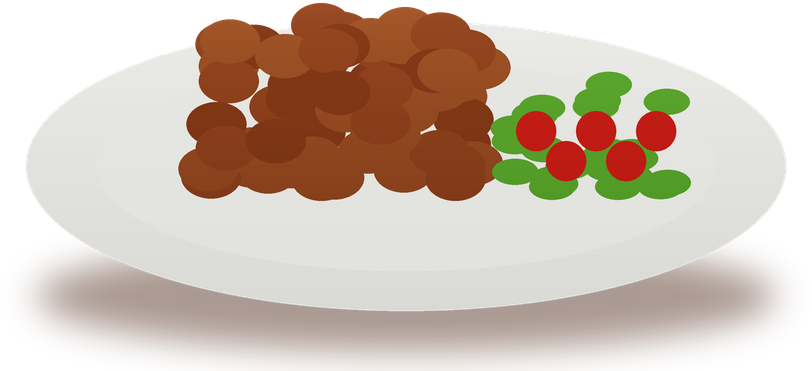
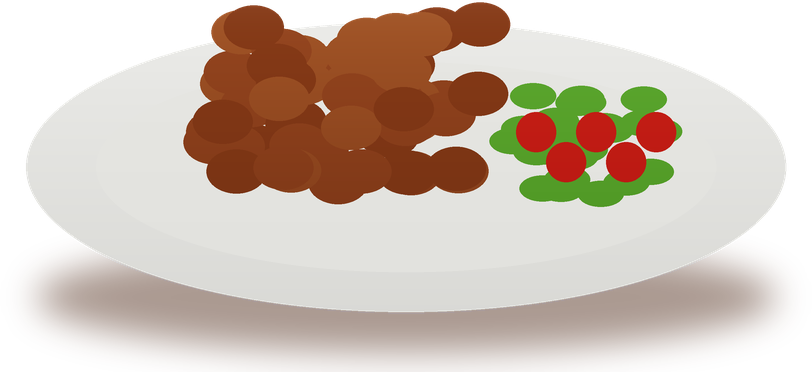
Centre the sauce list, soften the light sweep, GDK-style doner picture
Ryan's shop photo, 2 Nov: the sauce slide looked off-centre (English far left, Persian far right,
empty middle) and the light sweep showed as a strong white stripe on the TV.
- Sauce list: English and Persian now meet in the middle of the panel.
- The full-screen shine sweep is much fainter (the TVs show it far stronger than a monitor).
- Doner picture redrawn after GDK's look (Ryan: "take inspiration from the best parts"): toasted
  seeded bread, overstuffed shaved doner, red cabbage, lettuce, tomato, garlic sauce, cheese.
tools/check.cjs: all 7 pass.

Claude-Session: https://claude.ai/code/session_01GCEwpkWzwaa1Hpz45ttbNV

diff --git a/site/screen.css b/site/screen.css
@@ -64,7 +64,7 @@ body.hide-cursor, body.hide-cursor * { cursor: none; }
 /* A slow shine slides across the glass now and then: one moving band, so it stays smooth on TVs. */
 .sweep {
   position: fixed; top: 0; bottom: 0; left: 0; width: 30%; pointer-events: none; z-index: 5;
-  background: linear-gradient(105deg, transparent, rgba(255, 255, 255, .06) 40%, rgba(255, 255, 255, .2) 50%, rgba(255, 255, 255, .06) 60%, transparent);
+  background: linear-gradient(105deg, transparent, rgba(255, 255, 255, .02) 40%, rgba(255, 255, 255, .07) 50%, rgba(255, 255, 255, .02) 60%, transparent); /* faint: the TVs show it far stronger */
   transform: translateX(-110%); will-change: transform; animation: sweep 16s ease-in-out infinite;
 }
 @keyframes sweep { 0%, 70% { transform: translateX(-110%); } 100% { transform: translateX(350%); } }

diff --git a/tools/draw-food.py b/tools/draw-food.py
@@ -70,20 +70,36 @@ shade(img, z, (255, 222, 40), (240, 190, 0))                                    
 shade(img, rrect((100, 200, 800, 290), 70), (244, 186, 100), (204, 128, 50), light=0.35)      # top bun, behind look
 save(img, 'hotdog')
 
-# ---- doner baguette
-img = canvas(); shadow(img, (60, 470, 840, 560))
-shade(img, rrect((50, 330, 850, 480), 70), (236, 180, 100), (190, 120, 50), light=0.2)
-for k in range(46):
-    x = 80 + k * 16 + random.uniform(-5, 5); y = 300 + random.uniform(-12, 12)
-    shade(img, ell((x, y, x + 46, y + 40)), random.choice([(176, 86, 40), (150, 66, 26), (196, 110, 52)]), (110, 46, 18), light=0.2)
-for k in range(14):
-    x = 90 + k * 52 + random.uniform(-8, 8)
-    shade(img, ell((x, 318, x + 36, 344)), (226, 40, 30), (170, 20, 14), light=0.3)
-    shade(img, ell((x + 20, 330, x + 64, 352)), (110, 190, 60), (70, 140, 30))
-shade(img, rrect((40, 180, 860, 320), 75), (246, 196, 116), (206, 134, 56), light=0.4)
-for k in range(30):
-    x = 120 + random.uniform(0, 660); y = 205 + random.uniform(0, 40)
-    shade(img, ell((x, y, x + 10, y + 6)), (255, 244, 214), (230, 210, 170))
+# ---- doner baguette, GDK-style (Ryan, 2 Nov 2026: "take inspiration from the best parts of GDK"):
+# a toasted, seeded Turkish bread wedge, overstuffed with shaved doner, red cabbage, crisp lettuce,
+# tomato, a garlic-sauce drizzle and grated cheese spilling out of the open side.
+img = canvas(); shadow(img, (40, 470, 860, 575), blur=45, a=130)
+shade(img, rrect((40, 360, 860, 495), 60), (226, 160, 80), (168, 98, 36), light=0.2)                 # bottom bread
+for k in range(70):                                                                                     # shaved meat, layered
+    x = 60 + random.uniform(0, 760); y = 300 + random.uniform(-10, 70); w = random.uniform(50, 110)
+    m = poly([(x, y + 22), (x + w * .3, y), (x + w, y + 8), (x + w * .8, y + 30), (x + w * .2, y + 34)])
+    shade(img, m, random.choice([(186, 104, 52), (160, 80, 34), (204, 128, 66), (140, 66, 26)]), (100, 42, 14), light=0.25)
+for k in range(46):                                                                                     # red cabbage shreds
+    x = 60 + random.uniform(0, 760); y = 270 + random.uniform(0, 50)
+    shade(img, shape(lambda d, x=x, y=y: d.line([(x * S, y * S), ((x + random.uniform(20, 46)) * S, (y + random.uniform(-14, 14)) * S)], fill=255, width=7 * S)), (150, 40, 120), (100, 20, 80))
+for k in range(30):                                                                                     # lettuce
+    x = 60 + random.uniform(0, 760); y = 262 + random.uniform(0, 40)
+    shade(img, ell((x, y, x + random.uniform(30, 60), y + 22)), (176, 222, 110), (110, 170, 60), light=0.2)
+for k in range(12):                                                                                     # tomato
+    x = 80 + k * 64 + random.uniform(-10, 10)
+    shade(img, rrect((x, 290, x + 44, 314), 8), (232, 52, 36), (176, 24, 16), light=0.35)
+for k in range(30):                                                                                     # grated cheese
+    x = 80 + random.uniform(0, 720); y = 258 + random.uniform(0, 30)
+    shade(img, shape(lambda d, x=x, y=y: d.line([(x * S, y * S), ((x + 16) * S, (y + random.uniform(-6, 6)) * S)], fill=255, width=4 * S)), (255, 214, 60), (240, 180, 20))
+sauce = shape(lambda d: d.line([((70 + k * 30) * S, (262 + (12 if k % 2 else -4) + random.uniform(-4, 4)) * S) for k in range(26)], fill=255, width=9 * S, joint='curve'))
+shade(img, sauce, (255, 252, 242), (236, 230, 216), light=0.3)                                         # garlic sauce drizzle
+top = rrect((30, 120, 870, 268), 75)
+shade(img, top, (240, 182, 96), (196, 122, 48), light=0.45)                                             # top bread, toasted
+gloss(img, (120, 140, 560, 175), a=90, blur=14)
+for k in range(70):                                                                                     # sesame and nigella seeds
+    x = 80 + random.uniform(0, 740); y = 140 + random.uniform(0, 70)
+    col = (255, 244, 214) if k % 3 else (40, 30, 26)
+    shade(img, ell((x, y, x + 9, y + 5)), col, col)
 save(img, 'doner')
 
 # ---- shawarma wrap

diff --git a/tools/build-walls.py b/tools/build-walls.py
@@ -147,6 +147,7 @@ for name, (b, y0, y1) in SECTIONS.items():
 # ---- sauces: the board prints them small in a 3-across grid. Rebuild them as a list like the other
 # sections (Ryan, 2 Nov 2026: the sauces must be big): one sauce per row, English left, Persian right,
 # each name cut straight from the board (never retyped) and enlarged to match the other sections' names.
+# English and Persian meet in the middle, so the list sits centred (Ryan, 2 Nov 2026: it looked off-centre).
 def sauce_list():
     b, y0, y1 = SECTIONS['sauces']
     src = boards[b][y0:y1 + 1, X0:X1]
@@ -168,8 +169,10 @@ def sauce_list():
             en, fa = up(cut(ey, x)), up(cut(fy, x))
             h = max(en.shape[0], fa.shape[0])
             row = np.tile(B, (h, width, 1))
-            row[(h - en.shape[0]) // 2:(h - en.shape[0]) // 2 + en.shape[0], 8:8 + en.shape[1]] = en
-            row[(h - fa.shape[0]) // 2:(h - fa.shape[0]) // 2 + fa.shape[0], width - 8 - fa.shape[1]:width - 8] = fa
+            # centred pair: English ends just left of the middle, Persian starts just right of it
+            mid, gap = width // 2, 28
+            row[(h - en.shape[0]) // 2:(h - en.shape[0]) // 2 + en.shape[0], mid - gap - en.shape[1]:mid - gap] = en
+            row[(h - fa.shape[0]) // 2:(h - fa.shape[0]) // 2 + fa.shape[0], mid + gap:mid + gap + fa.shape[1]] = fa
             lines += [row, np.tile(B, (22, width, 1))]
     out = np.vstack(lines + [np.tile(B, (10, width, 1))])
     return out, tight['sauces'][1]
